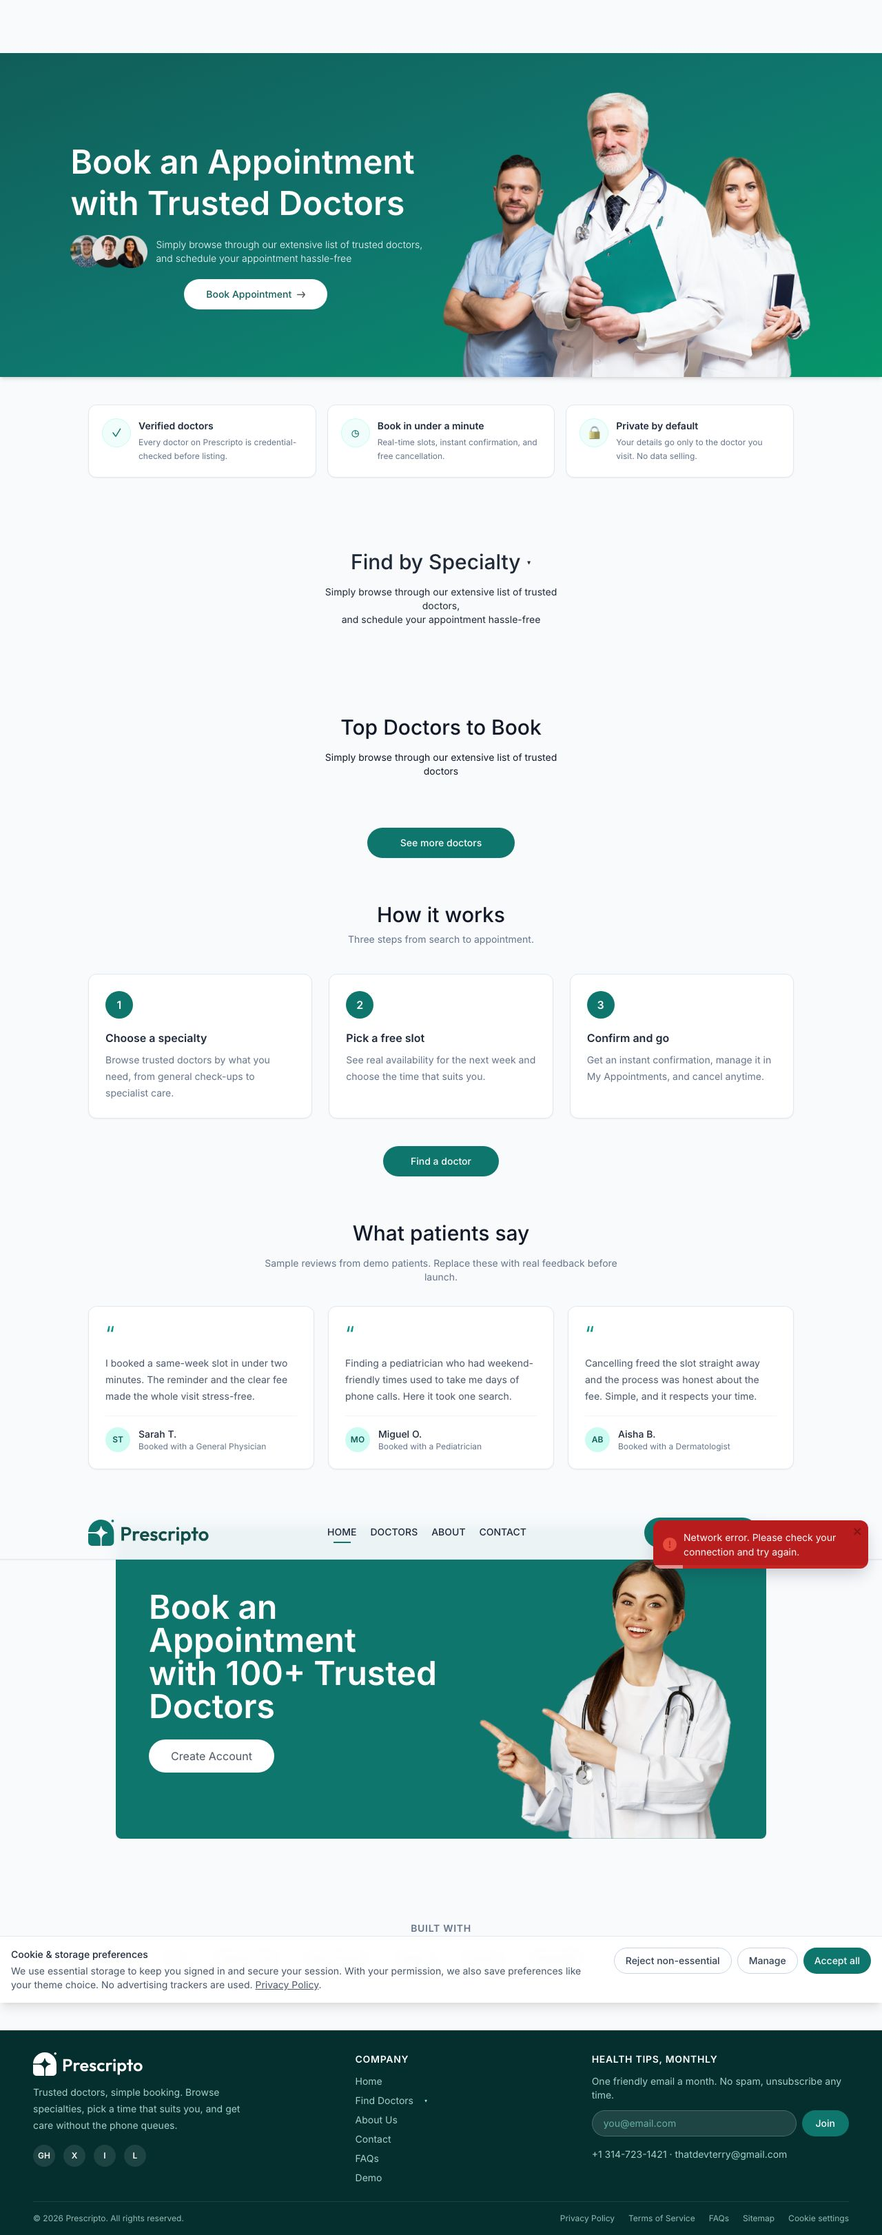
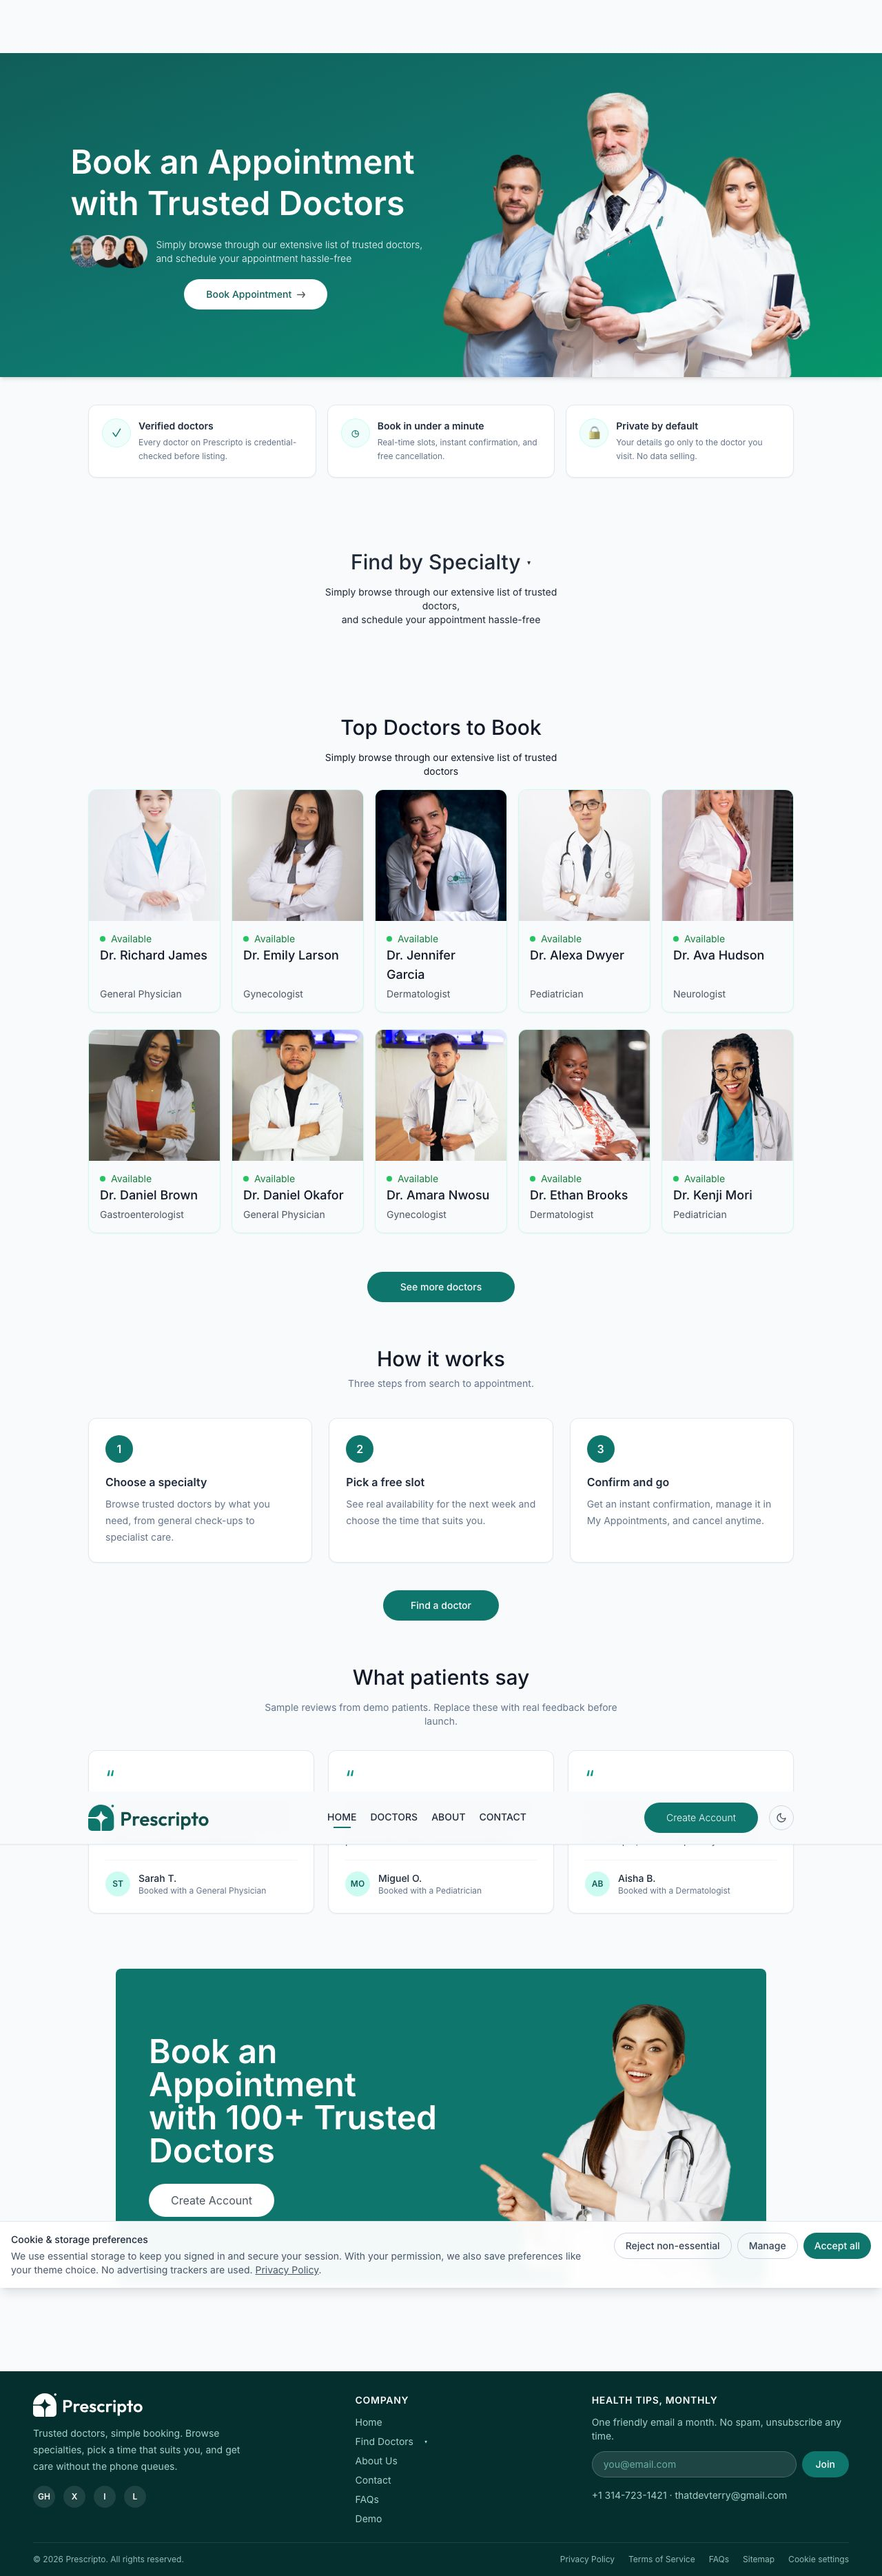
Retake Prescripto full-page screenshot without toast and Built With section

Changed region(s): [[0.0, 0.0, 1.0, 0.9966], [0.125, 0.5606, 0.25, 0.654], [0.6562, 0.5606, 0.75, 0.5917]]

diff --git a/scripts/capture-screenshot.js b/scripts/capture-screenshot.js
@@ -8,6 +8,20 @@ const output = process.argv[3];
 	const page = await browser.newPage({ viewport: { width: 1280, height: 720 } });
 	await page.goto(url, { waitUntil: "networkidle", timeout: 60000 });
 
+	// Remove common overlays/toasts and the Prescripto "Built with" section.
+	await page.evaluate(() => {
+		document
+			.querySelectorAll(
+				'.Toastify__toast-container, [role="alert"], [class*="toast" i], [class*="Toast" i]'
+			)
+			.forEach((el) => el.remove());
+
+		document.querySelectorAll("section").forEach((el) => {
+			if (el.textContent.includes("Built with")) el.remove();
+		});
+	});
+
+	// Scroll to bottom to trigger lazy-loaded images.
 	await page.evaluate(async () => {
 		await new Promise((resolve) => {
 			let totalHeight = 0;
@@ -24,7 +38,18 @@ const output = process.argv[3];
 		});
 	});
 
+	// Wait a bit for images to load after scrolling.
 	await page.waitForTimeout(3000);
+
+	// Remove any toasts that appeared after scrolling.
+	await page.evaluate(() => {
+		document
+			.querySelectorAll(
+				'.Toastify__toast-container, [role="alert"], [class*="toast" i], [class*="Toast" i]'
+			)
+			.forEach((el) => el.remove());
+	});
+
 	await page.screenshot({ path: output, fullPage: true });
 	await browser.close();
 })();
